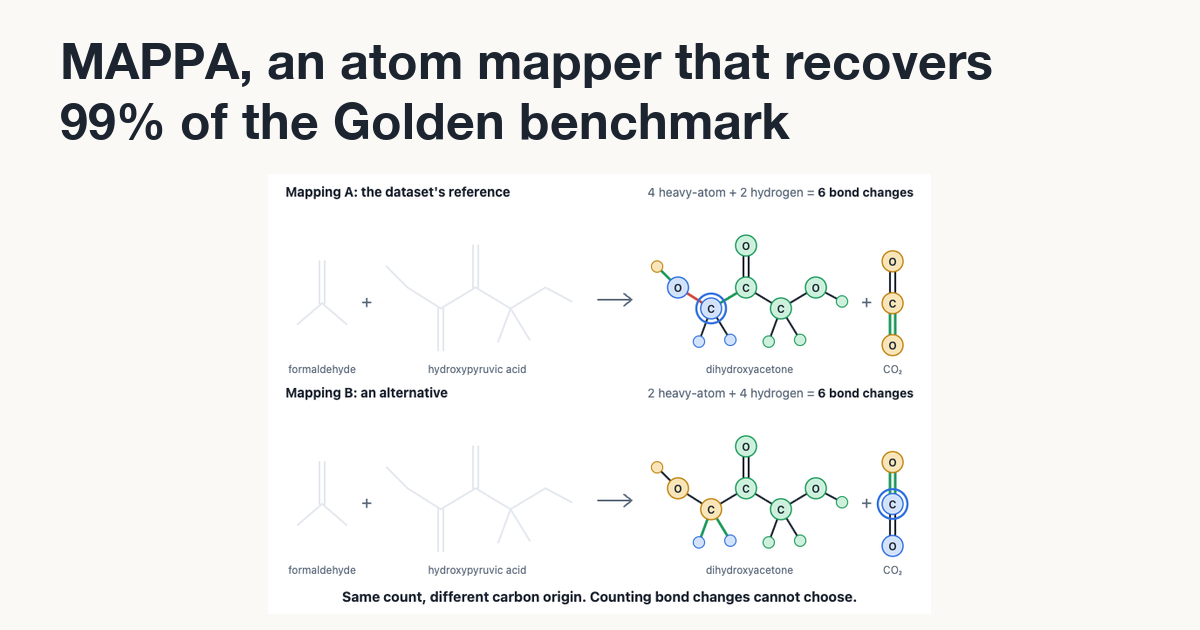
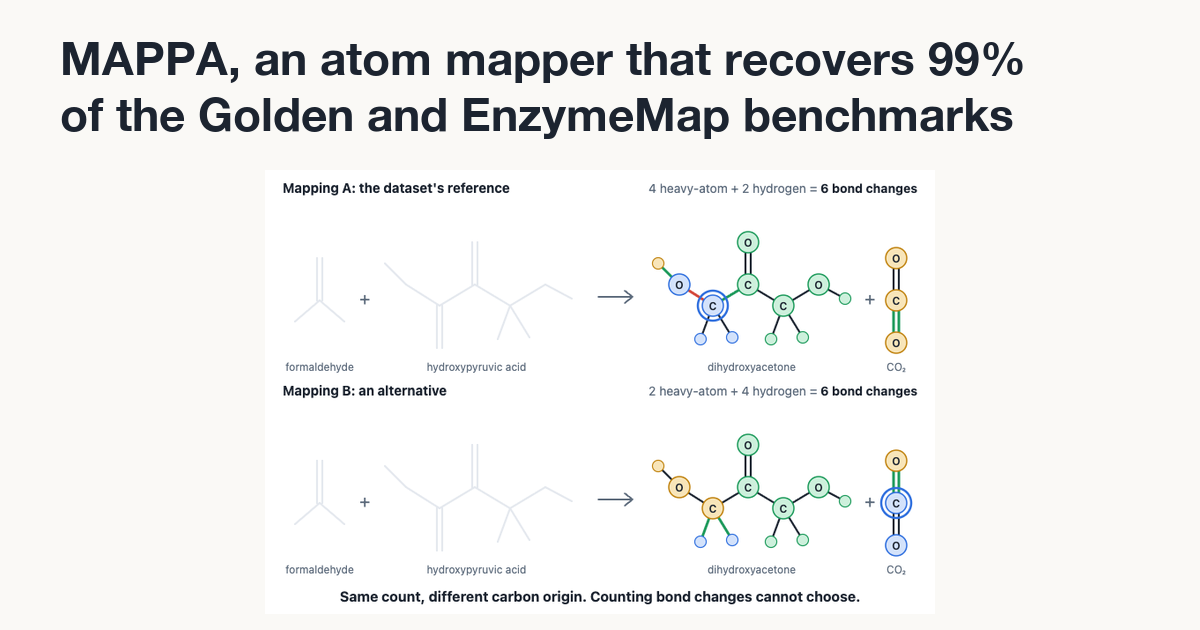
Name both benchmarks in the title

diff --git a/index.html b/index.html
@@ -3,11 +3,11 @@
 <head>
 <meta charset="utf-8">
 <meta name="viewport" content="width=device-width, initial-scale=1">
-<title>MAPPA, an atom mapper that recovers 99% of the Golden benchmark | MAPPA</title>
+<title>MAPPA, an atom mapper that recovers 99% of the Golden and EnzymeMap benchmarks | MAPPA</title>
 <meta name="description" content="MAPPA returns alternative atom mappings for a reaction. The reference mapping is among them for more than 99% of nearly 50,000 benchmark reactions.">
 <!-- Link previews on social sites and chat apps. -->
 <meta property="og:type" content="article">
-<meta property="og:title" content="MAPPA, an atom mapper that recovers 99% of the Golden benchmark">
+<meta property="og:title" content="MAPPA, an atom mapper that recovers 99% of the Golden and EnzymeMap benchmarks">
 <meta property="og:description" content="MAPPA returns alternative atom mappings for a reaction. The reference mapping is among them for more than 99% of nearly 50,000 benchmark reactions.">
 <meta property="og:url" content="https://yunhzou.github.io/MAPPA-AAM/">
 <meta property="og:image" content="https://yunhzou.github.io/MAPPA-AAM/figures/share-card.png">
@@ -55,7 +55,7 @@ footer { margin-top: 56px; padding-top: 20px; border-top: 1px solid var(--line);
 </head>
 <body>
 <main>
-<h1>MAPPA, an atom mapper that recovers 99% of the Golden benchmark</h1>
+<h1>MAPPA, an atom mapper that recovers 99% of the Golden and EnzymeMap benchmarks</h1>
 <div class="byline">
   <div class="person"><img src="figures/author.jpg" alt="Portrait of Yunheng Zou" width="64" height="64"><div><strong>Yunheng Zou</strong><br>Author</div></div>
   <div class="person"><img src="figures/olalla.jpg" alt="Portrait of Olalla Nieto Faza" width="64" height="64"><div><strong>Olalla Nieto Faza</strong><br>Contributor</div></div>
